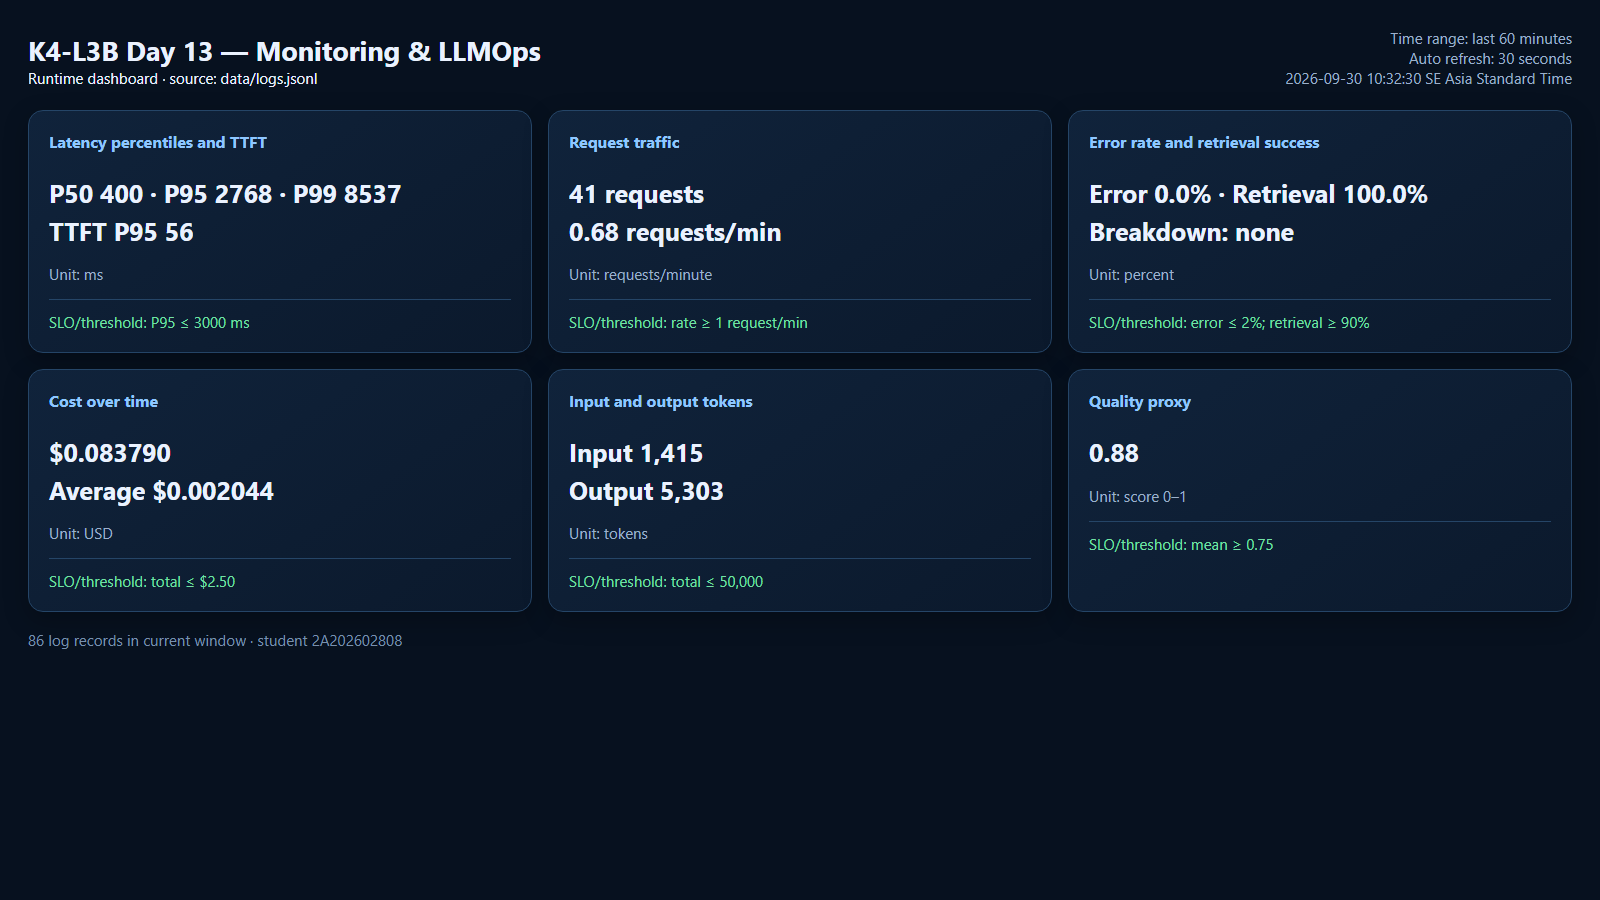
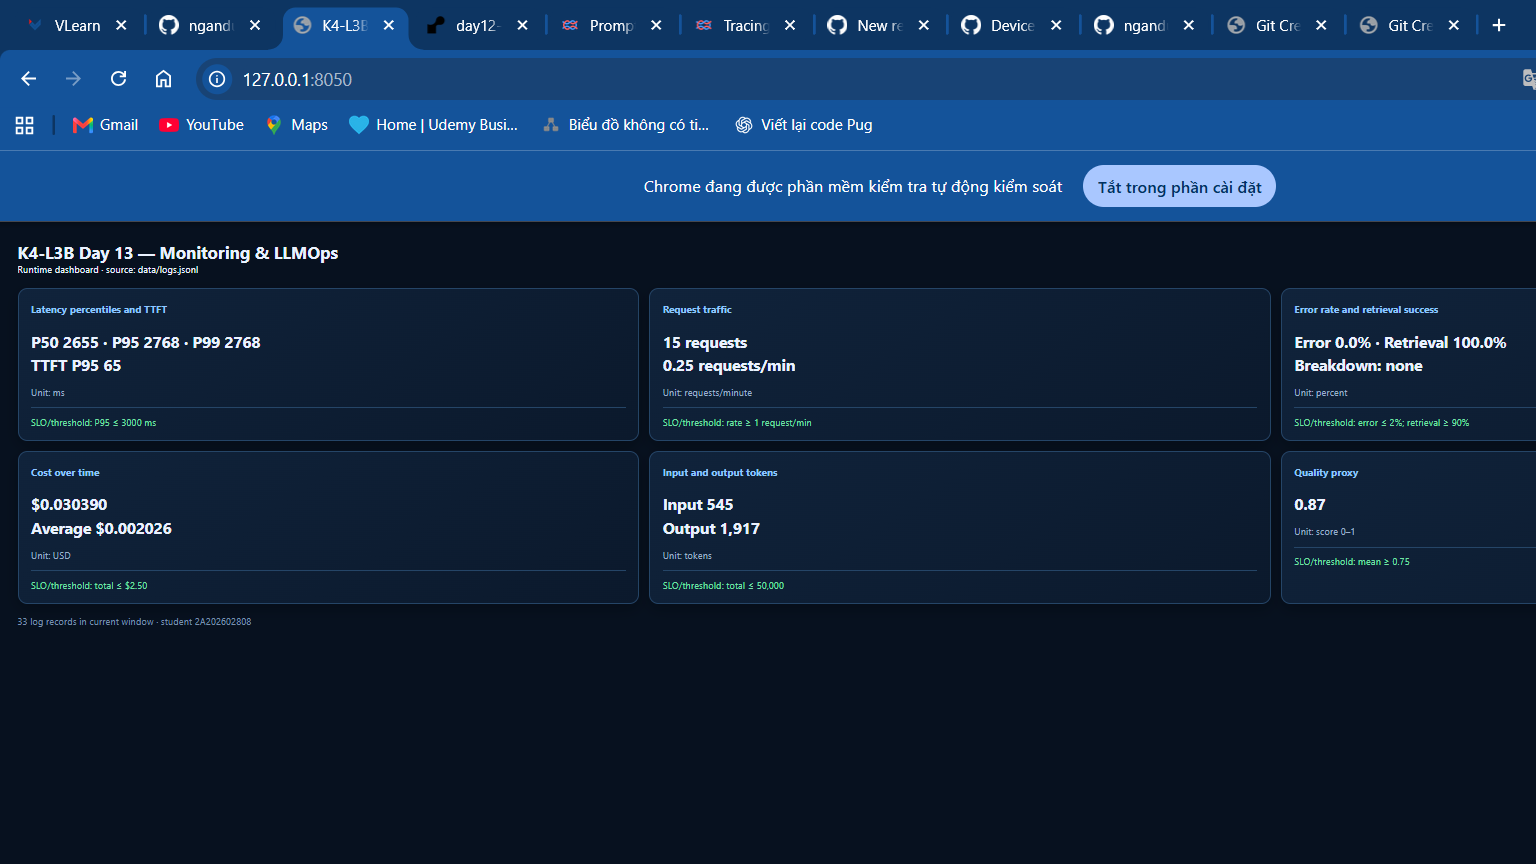
feat: complete official CP3 investigation

diff --git a/submission/REPORT.md b/submission/REPORT.md
@@ -7,7 +7,7 @@
 - **Lớp:** K4-L3B
 - **Repository URL:** `https://github.com/nganduong-123/K4-L3-DAY13-DuongThiNgan-2A202602808-Monitoring-LLMOps`
 - **Commit SHA nộp:** xem SHA được ghi cùng URL trên VLearn
-- **Challenge chính thức:** chưa được Lab Coach release tại thời điểm hoàn thiện CP0–CP2; không tự tạo hoặc dùng file lớp khác
+- **Challenge chính thức:** `day13-k4-l3b-monitoring-llmops-v1`, lấy từ commit phát hành chính thức `0a7eadb` của repo đề K4-L3B
 - **Tên project Langfuse cá nhân:** `day13-k4-l3b-2A202602808`
 
 ## 2. Evidence index
@@ -25,9 +25,9 @@
 | Prompt versions | `evidence/09-prompt-versions.png` |
 | Promote và rollback prompt | `evidence/10a-prompt-promoted.jpg`, `evidence/10b-prompt-rollback.jpg` |
 | Dashboard runtime | `evidence/11-dashboard-overview.png` |
-| Practice incident metric | `evidence/12-incident-metric.png` |
-| Practice incident log | `evidence/13-incident-log.png` |
-| Practice incident trace | `evidence/14-incident-trace.png` |
+| Official CP3 incident metric | `evidence/12-incident-metric.png` |
+| Official CP3 incident log | `evidence/13-incident-log.png` |
+| Official CP3 incident trace | `evidence/14-incident-trace.png` |
 
 ## 3. Kết quả kỹ thuật
 
@@ -36,18 +36,18 @@
 | `validate_logs.py` | 30/100 theo trạng thái starter có TODO | 100/100 | Đủ schema, enrichment, correlation ID, không PII thô |
 | `validate_dashboard.py` | 6/6 contract | 6/6 | Dashboard runtime đọc trực tiếp `data/logs.jsonl` |
 | `pytest` | Chưa chạy trước khi sửa TODO | 22 passed | Python 3.11 |
-| Số traces hợp lệ | 0 | 22 trace gốc / 66 observations | Mỗi trace có agent, retrieval, generation |
+| Số traces hợp lệ | 0 | 37 trace gốc / 111 observations | Mỗi trace có agent, retrieval, generation |
 | Số PII leak | Có nguy cơ do scrubber chưa đăng ký | 0 | Validator độc lập xác nhận |
-| Latency P50 / P95 / P99 | Chưa có dữ liệu | 400 / 2768 / 8537 ms | Cửa sổ gồm cả practice `rag_slow` và lần fetch prompt đầu |
-| TTFT P95 | Chưa có dữ liệu | 56 ms | Fake LLM |
-| Retrieval success rate | Chưa có dữ liệu | 100% | Practice `rag_slow` làm chậm nhưng không làm tool fail |
+| Latency P50 / P95 / P99 | Chưa có dữ liệu | 2655 / 2768 / 2768 ms | Cửa sổ dashboard sau workload CP3 chính thức |
+| TTFT P95 | Chưa có dữ liệu | 65 ms | Fake LLM; thấp hơn nhiều so với độ trễ retrieval |
+| Retrieval success rate | Chưa có dữ liệu | 100% | Challenge làm retrieval chậm nhưng không làm tool fail |
 
 ## 4. Logging và PII
 
 - Middleware xóa context cũ, nhận `x-request-id` hợp lệ hoặc sinh `req-<8-hex>`, bind vào `structlog`, lưu vào `request.state` và trả lại trong header `x-request-id`; `x-response-time-ms` chứa thời gian xử lý.
 - Trước `request_received`, log được enrich bằng `user_id_hash`, `session_id`, `feature`, `model`, `env`; response còn có latency, TTFT, token, cost, quality và kết quả retrieval.
 - `scrub_event` chạy trước file writer/JSON renderer và scrub đệ quy mọi chuỗi trong dict/list/tuple. Pattern che email, số điện thoại Việt Nam, CCCD, thẻ thanh toán, hộ chiếu và địa chỉ phổ biến.
-- Kiểm chứng bằng `scripts/validate_logs.py` và các input có email, điện thoại, thẻ. Kết quả: 86 record, 43 correlation ID, 0 PII leak, 100/100.
+- Kiểm chứng bằng `scripts/validate_logs.py` và các input có email, điện thoại, thẻ. Kết quả cuối: 118 record, 60 correlation ID, 0 PII leak, 100/100.
 
 ## 5. Tracing và prompt versioning
 
@@ -66,18 +66,16 @@
 - Error budget là 0.5%; nếu có 10,000 request thì tối đa 50 request được phép lỗi hoặc chậm hơn ngưỡng.
 - Ba alert symptom-based: `HighLatencyP95`, `HighRequestErrorRate`, `LowRetrievalSuccessRate`; mỗi alert có severity, duration, Slack channel, owner và runbook trong `docs/alerts.md`.
 
-## 7. Điều tra practice incident
+## 7. Điều tra incident CP3 chính thức
 
-> Đây là practice hợp lệ trước khi Lab Coach release challenge chính thức; không thay thế evidence CP3 chính thức.
-
-- **Scenario:** `rag_slow`.
-- **Khoảng thời gian:** 2026-09-30 10:31–10:33 (Asia/Ho_Chi_Minh).
-- **Triệu chứng từ metrics:** latency P95 tăng lên 2768 ms, P99 8537 ms; error rate vẫn 0%, retrieval success 100%.
-- **Log line:** `response_sent`, `correlation_id=req-b8901311`, latency khoảng 2660 ms.
-- **Trace:** `7352256c444ea657343e82dd1c6a57a5`; retrieval span 2.50 s, generation span khoảng 0.15 s.
-- **Root cause:** độ trễ được thêm ở retrieval, không phải generation hay lỗi model.
-- **Fix action:** tắt practice scenario `rag_slow`, xác nhận endpoint và latency phục hồi.
-- **Preventive measure:** alert P95, lọc log theo correlation ID và mở trace cùng ID; đặt timeout/circuit breaker cho retrieval.
+- **Challenge ID:** `day13-k4-l3b-monitoring-llmops-v1`.
+- **Khoảng thời gian:** 2026-09-30 11:23–11:24 (Asia/Ho_Chi_Minh).
+- **Triệu chứng từ metrics:** latency P50/P95/P99 là 2655/2768/2768 ms; error rate vẫn 0% và retrieval success 100%.
+- **Log line:** `response_sent`, `correlation_id=req-dbd2aee3`, `latency_ms=2671`, `tool_name=retrieval`, `tool_success=true`.
+- **Trace:** `a09b010ee64003227900b922c6bd2b07`; root `lab-agent-run` khoảng 2.68 s, retrieval span 2.50 s, generation span khoảng 0.15 s.
+- **Root cause:** challenge bật `rag_slow`, độ trễ nằm ở retrieval; generation, model và tool result không lỗi.
+- **Fix action:** tắt incident `rag_slow`; 10 request kiểm tra sau đó đều HTTP 200 và phục hồi về khoảng 163–219 ms.
+- **Preventive measure:** alert P95, timeout/circuit breaker cho retrieval, cache kết quả phù hợp và luôn nối metric → log → trace bằng `correlation_id`.
 
 ## 8. Giải thích và tự đánh giá
 
@@ -86,14 +84,14 @@
 - Luồng điều tra: Metrics khoanh vùng triệu chứng/thời gian → Logs chọn đúng request bằng correlation ID → Traces chỉ ra span retrieval chậm → xác nhận root cause.
 - Prompt labels giúp đổi version không cần deploy code; token/cost cho biết prompt có làm chi phí tăng; SLO/alert giúp phát hiện tác động; rollback đưa production về phiên bản ổn định.
 - Điều học được: observability chỉ hữu ích khi metrics, logs và traces dùng chung metadata và evidence có thể truy ngược tới cùng một request.
-- Hạn chế còn lại: CP3 chính thức chỉ có thể chạy sau khi nhận đúng `config/challenge.json` từ Lab Coach K4-L3B. File này sẽ không được commit.
+- File `config/challenge.json` chính thức đã được dùng để chạy CP3 và vẫn được ignore, không commit/push theo quy định.
 
 ## 9. Checklist trước khi nộp
 
 - [x] Tests và validators chạy thành công.
-- [x] Evidence CP0–CP2 và practice incident mở được bằng đường dẫn tương đối.
+- [x] Evidence CP0–CP3 chính thức mở được bằng đường dẫn tương đối.
 - [x] Trace/prompt evidence thuộc project Langfuse cá nhân và không chụp trang API Keys.
 - [x] Repository chạy lại được; `.env`, `.venv`, log runtime và challenge file được ignore.
 - [x] Không commit secret, API key hoặc PII thô.
-- [ ] Thay practice evidence bằng challenge chính thức sau khi Lab Coach release file K4-L3B.
+- [x] Đã thay practice evidence bằng challenge chính thức của K4-L3B.
 - [ ] Ghi URL repo và final commit SHA lên VLearn sau khi push.
